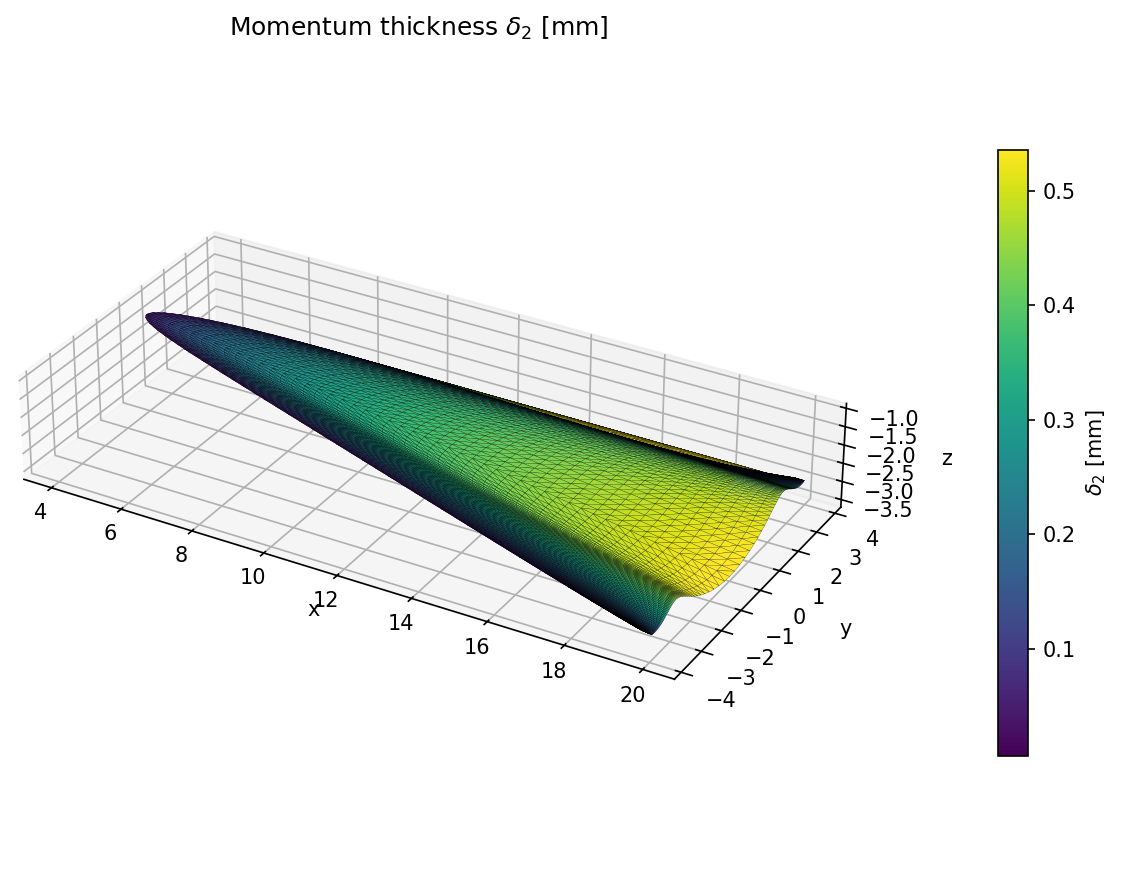
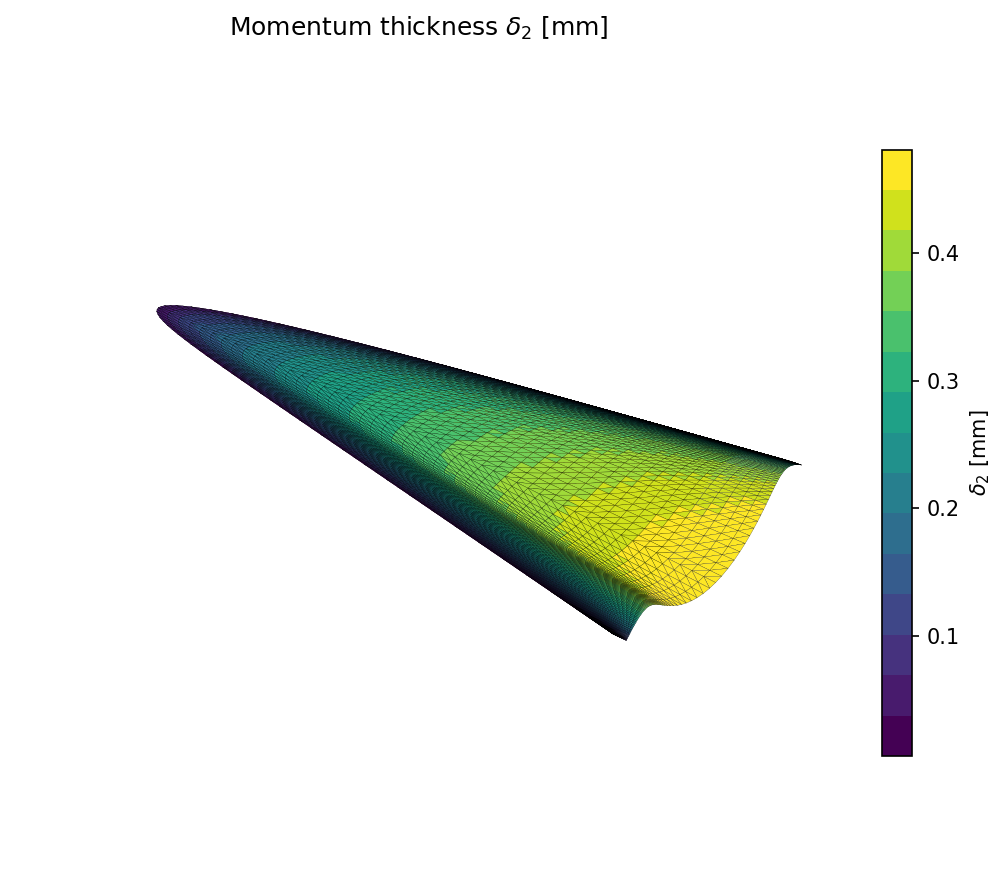
Changing the way the back curve is parametrized from a quartic to a 3-parameter function which is guaranteed to always produce an admissible upper trailing edge no matter what parameters are given. This should make optimizing the geometry much easier, since the code no longer crashes on some choices

diff --git a/src/TE_Formation.py b/src/TE_Formation.py
@@ -1,28 +1,200 @@
 import numpy as np
 import matplotlib.pyplot as plt
-from scipy.optimize import fsolve
-
+from scipy.optimize import brentq
 from taylor_maccoll_sol import Taylor_Maccoll
 
-
 class TEG:
+    R1_FRAC_MIN = 0.20
+    R1_FRAC_MAX = 0.85
+    W_FRAC_MIN = 0.25
+    W_FRAC_MAX = 0.85
+    N_SHAPE_MIN = 0.60
+    N_SHAPE_MAX = 10.0
+
     def __init__(self, gamma) -> None:
         self.tm_i = Taylor_Maccoll(gamma)
+
+    def make_simple_backface(self, L, beta_deg, R1_frac=0.20, W_frac=0.80, n_shape=2.0):
+        """
+        Build a callable z_func(y) for a simple admissible trailing-edge shape.
+
+        Parameters
+        ----------
+        L : float
+            Vehicle length [m]
+        beta_deg : float
+            Shock semi-angle in degrees
+        R1_frac : float
+            Centerline radial fraction R1 / Rs
+            Required bound: 0.20 <= R1_frac <= 0.85
+        W_frac : float
+            Half-span fraction y_up / Rs
+            Required bound: 0.25 <= W_frac <= 0.85
+        n_shape : float
+            Shape exponent
+            Required bound: 0.6 <= n_shape <= 10
+
+        Returns
+        -------
+        z_func : callable
+            Function handle z = z_func(y), valid for |y| <= y_up
+        Rs : float
+            Shock radius in the base plane
+        """
+
+        # -----------------------------
+        # Basic input checks
+        # -----------------------------
+        if not np.isfinite(L) or L <= 0.0:
+            raise ValueError("L must be positive.")
+        if not np.isfinite(beta_deg) or not (0.0 < beta_deg < 89.0):
+            raise ValueError("beta_deg must lie in (0, 89).")
+        if not np.isfinite(R1_frac):
+            raise ValueError("R1_frac must be finite.")
+        if not np.isfinite(W_frac):
+            raise ValueError("W_frac must be finite.")
+        if not np.isfinite(n_shape):
+            raise ValueError("n_shape must be finite.")
+        if not (self.R1_FRAC_MIN <= R1_frac <= self.R1_FRAC_MAX):
+            raise ValueError(
+                f"R1_frac must satisfy "
+                f"{self.R1_FRAC_MIN:.2f} <= R1_frac <= {self.R1_FRAC_MAX:.2f}."
+            )
+        if not (self.W_FRAC_MIN <= W_frac <= self.W_FRAC_MAX):
+            raise ValueError(
+                f"W_frac must satisfy "
+                f"{self.W_FRAC_MIN:.2f} <= W_frac <= {self.W_FRAC_MAX:.2f}."
+            )
+        if not (self.N_SHAPE_MIN <= n_shape <= self.N_SHAPE_MAX):
+            raise ValueError(
+                f"n_shape must satisfy "
+                f"{self.N_SHAPE_MIN:.1f} <= n_shape <= {self.N_SHAPE_MAX:.1f}."
+            )
+
+        # Build geometry
+        beta_rad = np.radians(beta_deg)
+        Rs = float(L * np.tan(beta_rad))
+        R1 = float(R1_frac * Rs)
+        y_up = float(W_frac * Rs)
+        gap0 = float(Rs**2 - R1**2)
+
+        def z_func(y):
+            """
+            Callable back-face function.
+            Valid for |y| <= y_up.
+            """
+            y_arr = np.asarray(y, dtype=float)
+            scalar_input = (y_arr.ndim == 0)
+            y_abs = np.abs(y_arr)
+            if np.any(y_abs > y_up + 1e-12):
+                raise ValueError(
+                    f"y outside admissible domain [-{y_up:.6g}, {y_up:.6g}]"
+                )
+            eta = (y_abs / y_up) ** 2
+            base = np.maximum(0.0, 1.0 - eta)
+            gap = gap0 * base**n_shape
+            radicand = Rs**2 - y_abs**2 - gap
+
+            # Numerical guard
+            if np.any(radicand < -1e-9):
+                raise ValueError(
+                    "Negative radicand encountered. "
+                    "This indicates a non-admissible or numerically unstable shape."
+                )
+            radicand = np.maximum(radicand, 0.0)
+            z_val = -np.sqrt(radicand)
+            if scalar_input: return float(z_val)
+            return z_val
+
+        # Attach metadata directly to the function handle
+        z_func.Rs = Rs
+        z_func.y_up = y_up
+        z_func.R1 = R1
+        z_func.beta_deg = float(beta_deg)
+        z_func.report = {
+            "ok": True,
+            "L": float(L),
+            "beta_deg": float(beta_deg),
+            "Rs": Rs,
+            "R1": R1,
+            "y_up": y_up,
+            "R1_frac": float(R1_frac),
+            "W_frac": float(W_frac),
+            "n_shape": float(n_shape),
+            "z_center": float(z_func(0.0)),
+            "z_tip": float(z_func(y_up)),
+            "tip_slope_singular": bool(n_shape < 1.0),
+            "tip_tangent_to_shock": bool(n_shape > 1.0),
+        }
+
+        # Optional sampled sanity check
+        y_chk = np.linspace(0.0, y_up, 2001)
+        z_chk = z_func(y_chk)
+        rho_chk = np.sqrt(y_chk**2 + z_chk**2)
+
+        if np.any(rho_chk > Rs * (1.0 + 1e-9)):
+            raise ValueError("Generated back-face leaves the shock circle.")
+
+        if np.any(~np.isfinite(z_chk)):
+            raise ValueError("Generated back-face contains non-finite values.")
+
+        return z_func, Rs
+
+    @staticmethod
+    def _extract_shape_metadata(z_func):
+        """
+        Try to recover y_up / Rs from:
+        - a plain function with attached attributes
+        - a bound method whose owner stores attributes
+        """
+        owner = getattr(z_func, "__self__", None)
+
+        y_up = getattr(z_func, "y_up", None)
+        if y_up is None and owner is not None:
+            y_up = getattr(owner, "y_up", None)
+
+        Rs = getattr(z_func, "Rs", None)
+        if Rs is None and owner is not None:
+            Rs = getattr(owner, "Rs", None)
+
+        return y_up, Rs
 
     def te_curve(self, z_func, Rs, L, N):
         """Compute trailing-edge and leading-edge projection arrays."""
 
-        def equation(y):
-            return np.sqrt(y**2 + z_func(y)**2) - Rs
+        meta_y_up, meta_Rs = self._extract_shape_metadata(z_func)
 
-        y_up = fsolve(equation, 2.0)[0]
+        if meta_Rs is not None:
+            Rs = float(meta_Rs)
+
+        # Prefer known y_up from the generated function handle
+        if meta_y_up is not None:
+            y_up = float(meta_y_up)
+        else:
+            # Fallback for legacy z_func input
+            def equation(y):
+                z = z_func(y)
+                z = float(np.asarray(z).reshape(-1)[0])
+                return np.sqrt(y**2 + z**2) - Rs
+            g0 = equation(0.0)
+            g1 = equation(Rs)
+            if g0 > 0.0:
+                raise ValueError("Trailing-edge centerline lies outside the shock circle.")
+            if g1 < 0.0:
+                raise ValueError(
+                    "Could not bracket TE/shock intersection on [0, Rs]. "
+                    "Check the supplied z_func."
+                )
+            y_up = float(brentq(equation, 0.0, Rs))
 
         y_plot = np.linspace(-y_up, y_up, N)
         z_plot = z_func(y_plot)
 
-        y_plot_break = np.linspace(0, y_up, N)
+        y_plot_break = np.linspace(0.0, y_up, N)
         z_plot_break = z_func(y_plot_break)
-        x_plot_break = L * (1 - (Rs - np.sqrt(y_plot_break**2 + z_plot_break**2)) / Rs)
+
+        rho_break = np.sqrt(y_plot_break**2 + z_plot_break**2)
+        x_plot_break = L * rho_break / Rs
 
         return y_plot, z_plot, x_plot_break, y_plot_break, z_plot_break
 
@@ -31,13 +203,13 @@ class TEG:
         cone = self.tm_i.cone_half_angle(beta_rad, Vr_i, V_theta_i)
 
         y_conical = np.linspace(-Rs, Rs, N)
-        z_conical = np.sqrt(Rs**2 - y_conical**2)
-        z_conical_sym = -np.sqrt(Rs**2 - y_conical**2)
+        z_conical = np.sqrt(np.maximum(0.0, Rs**2 - y_conical**2))
+        z_conical_sym = -z_conical
 
         R_c = L * np.tan(cone)
         Y_c = np.linspace(-R_c, R_c, N)
-        Z_c = np.sqrt(R_c**2 - Y_c**2)
-        Z_c_sym = -np.sqrt(R_c**2 - Y_c**2)
+        Z_c = np.sqrt(np.maximum(0.0, R_c**2 - Y_c**2))
+        Z_c_sym = -Z_c
 
         return cone, y_conical, z_conical, z_conical_sym, Y_c, Z_c, Z_c_sym
 

diff --git a/src/waverider.py b/src/waverider.py
@@ -16,7 +16,6 @@ from taylor_maccoll_sol import Taylor_Maccoll
 from TE_Formation import TEG
 from streamline_tracing import TRACE
 
-
 def design_waverider(
     M1: float,
     gamma: float,
@@ -27,6 +26,7 @@ def design_waverider(
     N_up: int = 10,
     R1_frac: float = 0.2,
     W2_frac: float = 0.8,
+    n_shape: float = 1.0,
     output_dir: str | None = None,
 ) -> dict:
     """
@@ -43,6 +43,7 @@ def design_waverider(
     N_up    : Number of upper-surface lines.
     R1_frac : Trailing-edge R1 as a fraction of Rs  (default 0.2).
     W2_frac : Trailing-edge W2 as a fraction of Rs  (default 0.8).
+    n_shape  : Trailing-edge shape exponent (default 1.0; 1.0 = circular arc).
     output_dir : Directory for saved plots; None disables plot output.
 
     Returns
@@ -57,17 +58,11 @@ def design_waverider(
                              "Vr_i", "V_theta_i", "cone_half_angle_deg"}.
         "parameters"      : echo of all input parameters plus derived Rs, a, b, c.
     """
+
+    # Build backface geometry
+    teg = TEG(gamma)
+    z_func, Rs = teg.make_simple_backface(L=L,beta_deg=beta,R1_frac=R1_frac,W_frac=W2_frac,n_shape=n_shape)
     beta_rad = np.radians(beta)
-    Rs = L * np.tan(beta_rad)
-    R1 = R1_frac * Rs
-    W2 = W2_frac * Rs
-
-    a = -R1
-    b = 2 * (R1 - np.sqrt(Rs**2 - W2**2)) / W2**2
-    c = (np.sqrt(Rs**2 - W2**2) - R1) / W2**4
-
-    def z_func(y):
-        return a + b * y**2 + c * y**4
 
     # --- oblique shock initial conditions ---
     os_solver = Oblique_Shock()
@@ -85,7 +80,6 @@ def design_waverider(
         os.makedirs(plot_dir, exist_ok=True)
 
     # --- base-plane plot ---
-    teg = TEG(gamma)
     teg.plot_baseplane(
         z_func, Rs, L, N, beta_rad, Vr_i, V_theta_i,
         save_path=os.path.join(plot_dir, "baseplane.png") if plot_dir else None,
@@ -115,7 +109,7 @@ def design_waverider(
     geometry["parameters"] = {
         "M1": M1, "gamma": gamma, "beta": beta, "L": L,
         "N": N, "N_l": N_l, "N_up": N_up,
-        "Rs": Rs, "R1": R1, "W2": W2, "a": a, "b": b, "c": c,
+        "Rs": Rs
     }
 
     return geometry

diff --git a/src/mesh_panelization.py b/src/mesh_panelization.py
@@ -282,16 +282,18 @@ def plot_scalar_field(lower_mesh, lower_field,
         pad = 0.05 * (hi - lo) if (hi - lo) > 0 else 1.0
         getattr(ax, f"set_{lbl}lim")(lo - pad, hi + pad)
 
-    ax.set_xlabel("x")
-    ax.set_ylabel("y")
-    ax.set_zlabel("z")
+    ax.set_axis_off()
+    ax.grid(False)
+    ax.set_xticks([])
+    ax.set_yticks([])
+    ax.set_zticks([])
     ax.set_title(title)
     ax.set_box_aspect([1, 1, 1])
     ax.set_aspect("equal")
 
     mappable = cm.ScalarMappable(norm=norm, cmap=cmap_obj)
     mappable.set_array(lower_field)
-    cbar = fig.colorbar(mappable, ax=ax, shrink=0.75, pad=0.15)
+    cbar = fig.colorbar(mappable, ax=ax, shrink=0.75) #, pad=0.15)
     cbar.set_label(colorbar_label)
 
     if save_path:
@@ -527,20 +529,11 @@ def plot_flowfield_slices(geom, lower_mesh, upper_mesh,
             ax.add_collection3d(Poly3DCollection(
                 verts3d, facecolors=face, edgecolor="none"))
 
-        # Captured shock arc as thick black line
-        # n_arc = 200
-        # phi_arc = np.linspace(-phi_max, phi_max, n_arc)
-        # y_arc =  Rs_xp * np.sin(phi_arc)
-        # z_arc = -Rs_xp * np.cos(phi_arc)
-        # x_arc = np.full_like(y_arc, x_p)
-        # ax.plot(x_arc, y_arc, z_arc,
-        #         color="black", linewidth=1.0, zorder=20)
-
     # Refresh axis limits to include slice extents
     extent = 1.15 * Rs
     ax.set_xlim(0.0, L * 1.02)
     ax.set_ylim(-extent, extent)
-    ax.set_zlim(-extent, extent)
+    ax.set_zlim(-extent, extent/3)
     ax.set_axis_off()
     ax.grid(False)
     ax.set_xticks([])

diff --git a/src/oblique_shock.py b/src/oblique_shock.py
@@ -21,23 +21,18 @@ class Oblique_Shock:
         delt = (theta_rad * 180)/np.pi
 
         return M2, delt, beta_rad, theta_rad
-    
+
     def initial_nondimensioned_conditions(self, M1, gamma, beta):
 
         aftershock = self.sub_1(M1, gamma, beta)
-        # print(f"Mach Number (After Shock) = {aftershock[0]}")
-        # print(f"theta (deflection) = {aftershock[1]}")
-        # print(f"Shock Angle = {aftershock[2]}")
-
         M = aftershock[0]
         V_pr = 1/(np.sqrt(2/((gamma - 1) * M**2) + 1))
 
         #   Initial Non-dimensioned Conditions
         Vr_i = V_pr * np.cos(aftershock[2]-aftershock[3])
         V_theta_i = - V_pr * np.sin(aftershock[2]-aftershock[3])
-        # print(f"M = {M}, V_pr = {V_pr}, Vr_i = {Vr_i}, V_theta_i = {V_theta_i}")
 
         return Vr_i, V_theta_i
-    
+
     def test(self):
         print(self.M1, self.gamma, self.beta)

diff --git a/src/main.py b/src/main.py
@@ -168,8 +168,8 @@ print(f"Momentum thickness plot saved to {d2_plot_path}")
 flowfield_path = os.path.join(output_dir, "plots", "flowfield_slices.png")
 plot_flowfield_slices(
     geom, lower_mesh, upper_mesh,
-    field="temperature", # options: "mach", "temperature", "density"
-    cmap="Spectral_r",
+    field="mach", # options: "mach", "temperature", "density"
+    cmap="Spectral",
     save_path=flowfield_path,
     show=False,
 )

diff --git a/src/streamline_tracing.py b/src/streamline_tracing.py
@@ -162,7 +162,7 @@ class TRACE:
         ax.plot(bp["x"], bp["y"], bp["z"], color='r', lw=2, label='Lower Surface TE')
 
         ax.plot(X_p, Y_p, Z_p, color='k', label='Leading Edge')
-        ax.plot(X_b, Y_b, Z_b, color='y', label='Trailing Edge')
+        ax.plot(X_b, Y_b, Z_b, color='y', label='Trailing Edge', zorder=20)
 
         for us in geometry["upper_surface"]:
             x_u = us["x"]
